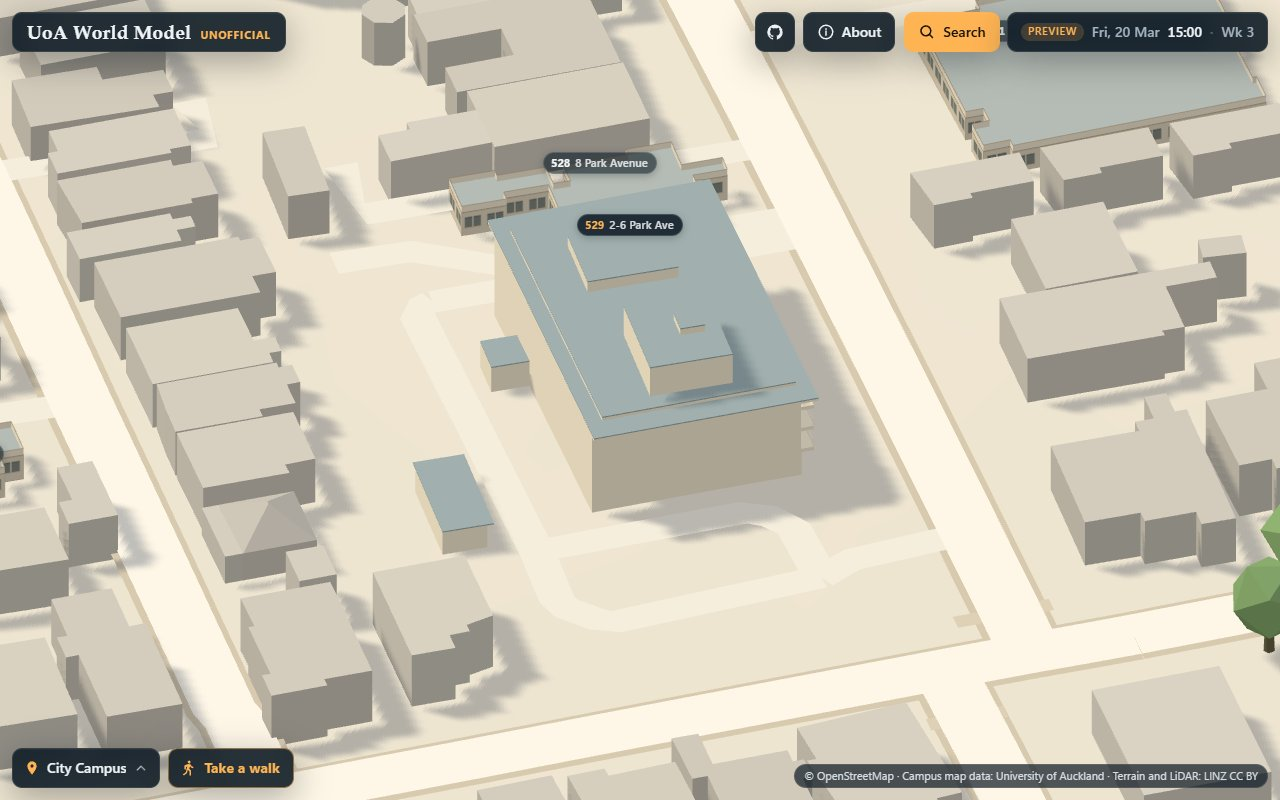
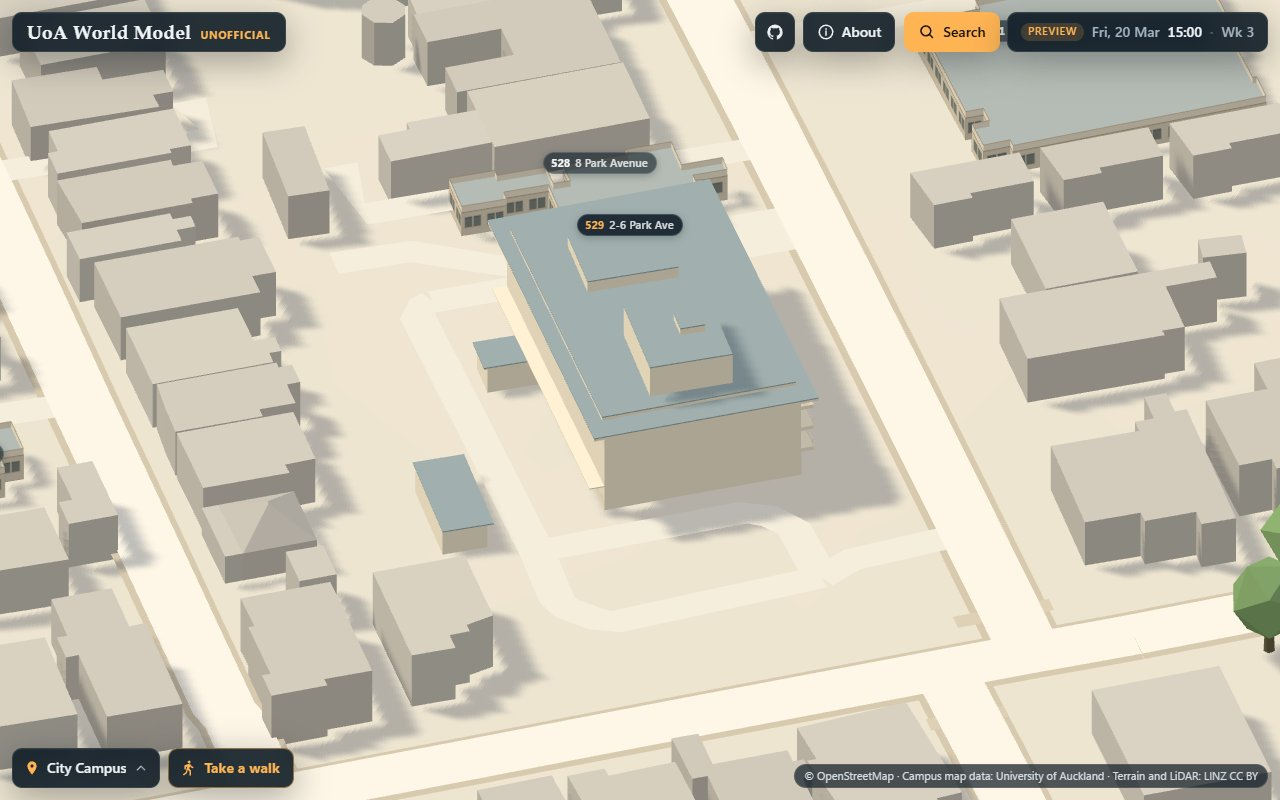
2-6 Park Ave (529), the review's round 2
- The west wall stood 0.3 m behind the eave, but the LiDAR sees a canopy at 3.65 m under the eave
  all along that side, up to 1.61 m in from its edge: the wall stands 1.8 m in, as on the north
  and south, and the canopy is drawn from it to the eave's edge.
- The annex stopped at w -16.4, where the LiDAR still has its roof: its outer wall stands at
  w -16.85, where the LiDAR sees a wall's face and the ground beyond, its roof runs to the ring's
  edge (w -17.3), its north end stands behind a ground return, and it runs into the block's west
  wall. The docs no longer say the LiDAR sees the ground beyond w -16.4.
- The east face's parts run between the walls' lines (t 0.0412 to 0.9582), not the eave's.
- The south-west part's +w side is called east; the README says its outer strip comes from the
  campus map's outline; the card names the canopy behind which the west wall stands.

888 triangles, 7 draw calls. Silhouette IoU 0.958 in the model's screen box. The top view:
footprint IoU 0.875, 89% of the 5,047 cells within 0.5 m; block 529 under the model 93.1%. The
landmark tests pass; the four pictures are retaken.

Claude-Session: https://claude.ai/code/session_01WyPcwFTXkmVC7XB6LWPSiH

Changed region(s): [[0.375, 0.3125, 0.5, 0.6562]]

diff --git a/landmarks/2-6-park-ave/parts/common.js b/landmarks/2-6-park-ave/parts/common.js
@@ -47,21 +47,29 @@ export const RAISED = { u: [4.0, 16.0], w: [-3.0, 7.0], top: H(17.3), plant: { u
 export const EAST = { back: 1.6, slabs: [[3.4, 3.9], [6.5, 7.0], [9.6, 10.1]].map(([a, b]) => [H(a), H(b)]),
   rail: [0.5, 1.05], bar: 0.06, fascia: H(12.0), windows: { y: [H(0.9), H(2.9)] } };
 
-// The walls stand behind the eave's edge where the LiDAR sees the ground under it (estimated depths): 1.8 m on the
-// north (its returns to 1.66 m in), 1.6 m on the east (1.48 m), 1.8 m on the south (1.46 m, near the south-east corner)
-// and 0.3 m on the west (none): their corners. Inside them the LiDAR has the roof and no ground.
-export const WALLS = [[-20.11, -12.24], [-20.95, 12.97], [18.85, 14.53], [19.59, -10.96]];
-// The east face's balconies, glazing, brick and ground storey windows run between the north and south walls (t along
-// NE to SE).
-export const EAST_T = [0.043, 0.96];
+// The walls stand behind the eave's edge (estimated depths): 1.8 m on the north, 1.6 m on the east and 1.8 m on the
+// south, behind the ground the LiDAR sees under the eave (its returns to 1.66, 1.48 and 1.46 m in), and 1.8 m on the
+// west, behind a canopy at 3.65 m (3.62 to 3.69) that the LiDAR sees under the eave all along that side, up to 1.61
+// m in from its edge: their corners. Inside them the LiDAR has the roof and no ground.
+export const WALLS = [[-20.16, -10.74], [-20.95, 12.97], [18.85, 14.53], [19.55, -9.46]];
+/** The west canopy under the eave, from the wall to the eave's edge between the north and south walls. */
+export const CANOPY = { plan: [[-20.16, -10.74], [19.55, -9.46], [19.55, -11.26], [-20.16, -12.53]],
+  y: [H(3.5), H(3.65)] };
+// The east face's balconies, glazing, brick and ground storey windows run between the north and south walls: t along
+// NE to SE where the walls' lines meet the east wall.
+export const EAST_T = [0.0412, 0.9582];
 
-// A low annex west of the block, one storey, u -11 to -5.9 (the ring's edge), to w -16.4, 3.5 m (3.48 to 3.53), where
-// the LiDAR roofs it with no ground under it (it sees the ground beyond w -16.4).
-export const ANNEX = { u: [-11.0, -5.9], w: [-16.4, -11.7], top: H(3.5) };
+// A low annex west of the block, one storey, its roof at 3.5 m (3.48 to 3.53) from u -11 to -5.9 (the ring's edge)
+// and out to w -17.3 (the ring's edge; the LiDAR's roof to about -17.4), with no ground under it; its outer wall at
+// w -16.85, where the LiDAR sees a wall's face (its returns at -16.85 to -17.15) and the ground beyond, and its
+// north end at u -10.7, behind a ground return (estimated); its roof over them from 3.2 m. It runs into the block's
+// west wall.
+export const ANNEX = { walls: { u: [-10.7, -5.9], w: [-16.85, -10.0] }, roof: { u: [-11.0, -5.9], w: [-17.3, -10.0] },
+  soffit: H(3.2), top: H(3.5) };
 // A low part south-west of the block, inside the ring (u 9.1 to 23.0, w -23.6 to -30.4), joined to it on the campus
 // map by a sliver: its flat roof at 3.44 m (3.40 to 3.49) from u 9.2 to 22.8 and w -23.7 to -27.6, where trees hide
 // the rest of it; drawn to the ring (estimated). The LiDAR sees the ground under its roof's edges, up to 1.0 m in on
-// the north (u 10.15) and 0.75 m on the north-east (w -24.4): its walls stand behind them (estimated), its roof over
+// the north (u 10.15) and 0.75 m on the east (w -24.4): its walls stand behind them (estimated), its roof over
 // them from 3.2 m.
 export const SOUTHWEST = { walls: { u: [10.3, 22.8], w: [-29.9, -24.5] }, roof: { u: [9.2, 22.8], w: [-29.9, -23.7] },
   soffit: H(3.2), top: H(3.44) };

diff --git a/landmarks/2-6-park-ave/parts/block.js b/landmarks/2-6-park-ave/parts/block.js
@@ -1,8 +1,9 @@
-// 2-6 Park Ave's block: its walls, eave and roof, the plant and the raised part on it, the annex on its west and the
-// low part south-west of it (`body`); its east face on Park Avenue, with the balconies of its upper storeys, their rails, the glazing behind them
-// and the brick ground storey (`east`). Sizes from common.js.
+// 2-6 Park Ave's block: its walls, eave and roof, the plant and the raised part on it, the canopy under its west eave,
+// the annex on its west and the low part south-west of it (`body`); its east face on Park Avenue, with the balconies of
+// its upper storeys, their rails, the glazing behind them and the brick ground storey (`east`). Sizes from common.js.
 import {
-  ANNEX, EAST, EAST_T, EAVE, FOOT, NE, NW, PLANT, RAISED, ROOF_IN, SE, SOUTHWEST, SW, WALLS, inEast, lerp, plan, rect,
+  ANNEX, CANOPY, EAST, EAST_T, EAVE, FOOT, NE, NW, PLANT, RAISED, ROOF_IN, SE, SOUTHWEST, SW, WALLS, inEast, lerp, plan,
+  rect,
 } from "./common.js";
 import { block, prism } from "./shapes.js";
 
@@ -16,8 +17,8 @@ const strip = (d0, d1, t0 = 0, t1 = 1) => {
 };
 
 /** The block's walls to the fascia, the eave over them to the LiDAR's edge, the roof inside rising to 13.0 m, the
- * plant, the raised part with its red roof and the plant on it, the annex, and the low part south-west of the block,
- * its roof over its walls. */
+ * plant, the raised part with its red roof and the plant on it, the canopy under the west eave, and the annex and the
+ * low part south-west of the block, each with its roof over its walls. */
 export function body(b) {
   prism(b, plan(WALLS), FOOT, EAST.fascia, WALL);
   block(b, plan([NW, NE, SE, SW]), EAST.fascia, EAVE, DARK, ROOF);
@@ -31,10 +32,11 @@ export function body(b) {
   const R = RAISED;
   block(b, rect(R.u, R.w), ROOF_IN.top - 0.05, R.top, WALL, TILE);
   block(b, rect(R.plant.u, R.plant.w), R.top - 0.05, R.plant.top, BRICK, ROOF);
-  block(b, rect(ANNEX.u, ANNEX.w), FOOT, ANNEX.top, WALL, ROOF);
-  const S = SOUTHWEST;
-  prism(b, rect(S.walls.u, S.walls.w), FOOT, S.soffit, WALL);
-  block(b, rect(S.roof.u, S.roof.w), S.soffit, S.top, WALL, ROOF);
+  prism(b, plan(CANOPY.plan), CANOPY.y[0], CANOPY.y[1], WALL);
+  for (const S of [ANNEX, SOUTHWEST]) {
+    prism(b, rect(S.walls.u, S.walls.w), FOOT, S.soffit, WALL);
+    block(b, rect(S.roof.u, S.roof.w), S.soffit, S.top, WALL, ROOF);
+  }
 }
 
 /** The east face: the ground storey's brick and windows, and at each upper storey a balcony on its slab, a rail of two

diff --git a/landmarks/2-6-park-ave/README.md b/landmarks/2-6-park-ave/README.md
@@ -36,9 +36,9 @@ other, as it does for every landmark.
   map's ground at its door (`../README.md`, "Placement").
 - The campus map's ring of 529 takes in, besides the block, a one-storey annex on its west and a low part south-west of
   it, joined to the block on the map by a sliver: both are drawn. Its other low strips along the block's walls, up to
-  about 1.5 m wide (canopies at 3.5 to 6.4 m, and the eave's edge), are left open: 72 m² of the LiDAR's roof inside the
-  ring, 43 m² of it with no ground seen under it.
-- 92.8% of block 529 is under the model above 2.5 m. No other block is under it by half, so `building.also` is empty.
+  about 1.5 m wide (canopies at 3.5 to 6.4 m, and the eave's edge), are left open: 67.5 m² of the LiDAR's roof inside
+  the ring, 41 m² of it with no ground seen under it.
+- 93.1% of block 529 is under the model above 2.5 m. No other block is under it by half, so `building.also` is empty.
 
 ## The reference
 
@@ -63,9 +63,11 @@ section names as estimated; it is a reference for the look and the comparison.
   14.5), SE (20.6, 16.2) and SW (21.4, -11.2) (u, w): a dark eave (`screenGrey`) from 12.0 m to the roof's edge at
   12.45 m (12.4 to 12.5 on every edge); inside it the roof, 12.6 to 13.1 m, drawn as a flat top of 13.0 m
   (`roofGrey`) whose edges stand 1.9 m in from the eave's on the east and west and 3.0 m on the north and south.
-- **The walls** (`claddingPale`) stand behind the eave's edge where the LiDAR sees the ground under it (estimated):
-  1.8 m on the north (its returns to 1.66 m in), 1.6 m on the east (1.48 m), 1.8 m on the south (1.46 m, near the
-  south-east corner) and 0.3 m on the west, where it sees none. Inside them it has the roof and no ground.
+- **The walls** (`claddingPale`) stand behind the eave's edge (estimated): 1.8 m on the north, 1.6 m on the east and 1.8
+  m on the south, behind the ground the LiDAR sees under the eave (its returns to 1.66, 1.48 and 1.46 m in), and 1.8 m
+  on the west, behind a canopy at 3.65 m (3.62 to 3.69) that it sees under the eave all along that side, up to 1.61 m in
+  from the eave's edge; the canopy is drawn there, from the wall to the eave's edge (`claddingPale`). Inside the walls
+  the LiDAR has the roof and no ground.
 - **On the roof** plant at 14.6 m (14.4 to 14.8) over u -14 to -5, w -5 to 6 (`renderGrey`); a raised part with a
   flat roof at 17.3 m (17.1 to 17.5), red on the 2023 aerial (`roofTile`), over u 4 to 16, w -3 to 7, and plant on it
   at 18.3 m (17.9 to 18.3) over u 8 to 11, w 2 to 5.
@@ -74,22 +76,24 @@ section names as estimated; it is a reference for the look and the comparison.
   storeys 3.1 m apart), each with a rail of two bars at 0.5 and 1.05 m on fourteen posts (`screenSilver`), and the
   glazing (`glass`) behind it; the ground storey in pale grey brick (`renderGrey`) from the north wall to the south wall,
   its windows from 0.9 to 2.9 m under the first slab.
-- **The annex** west of the block, one storey, u -11 to -5.9 (the ring's edge), out to w -16.4, 3.5 m (its returns
-  3.48 to 3.53), where the LiDAR has no ground under its roof; beyond w -16.4 it sees the ground.
+- **The annex** west of the block, one storey, its roof at 3.5 m (its returns 3.48 to 3.53) from u -11 to -5.9 and out
+  to w -17.3, the ring's edges (the LiDAR's roof runs to about -17.4), with no ground under it; its outer wall at w
+  -16.85, where the LiDAR sees a wall's face (its returns at -16.85 to -17.15) and the ground beyond, and its north end
+  at u -10.7, behind a ground return (estimated); its roof over them from 3.2 m. It runs into the block's west wall.
 - **The low part south-west of the block**, inside the ring (u 9.1 to 23.0, w -23.6 to -30.4): its flat roof at 3.44 m
   (3.40 to 3.49) from the LiDAR from u 9.2 to 22.8 and w -23.7 to -27.6, where trees hide the rest of it, so it is drawn
   to the ring's outer edge, w -29.9 (estimated; the campus map's ground floor has its rooms there). The LiDAR sees the
-  ground under its roof's edges, up to 1.0 m in on the north and 0.75 m on the north-east: its walls stand behind them,
-  its roof over them from 3.2 m (estimated).
+  ground under its roof's edges, up to 1.0 m in on the north and 0.75 m on the east: its walls stand behind them, its
+  roof over them from 3.2 m (estimated).
 - The light: the photograph is overcast, its east face in soft light without shadows. The viewer's sun stands behind
   the block (290 degrees round, 40 up), so that the east face takes the sky's light only, at an exposure of 1.0: the
   luma of the east face between the eave and the brick 92 against the photograph's 85, of its brick 87 against 111, of
   its slabs' fronts 147 against 189, of its glazing 85 against 75 (the compare's figure over the model's screen box,
   where the photograph has its bright sky, trees and a sign: 82 against 145).
 
-Silhouette IoU 0.912 in the photograph, 0.958 in the model's screen box. The top view: footprint IoU 0.871 (the
-LiDAR's 1,406 m² against the model's 1,296, both 1,258), 89% of the 5,027 cells both cover within 0.5 m
-(p10/p50/p90 -0.28/0.00/0.34); the highest point 18.3 m against the LiDAR's 18.15 (p99.9). 864 triangles, 7 draw
+Silhouette IoU 0.912 in the photograph, 0.958 in the model's screen box. The top view: footprint IoU 0.875 (the
+LiDAR's 1,406 m² against the model's 1,301, both 1,263), 89% of the 5,047 cells both cover within 0.5 m
+(p10/p50/p90 -0.28/0.00/0.34); the highest point 18.3 m against the LiDAR's 18.15 (p99.9). 888 triangles, 7 draw
 calls.
 
 ## On the map (step 7)
@@ -120,8 +124,8 @@ and the fourth round, and `massing.py --campus grafton` leaves it out and writes
   `screenSilver` and `screenGrey` are walls.
 - **Its card** says "estimated:" and the config's `estimated`: the east face's storeys, its balconies' depth and rails,
   the glazing behind them and the ground storey's brick and windows, with a photograph as a reference; how far the walls
-  stand behind the eaves, behind where the LiDAR sees the ground under them; the low part south-west of the block where
-  trees hide its roof, drawn to the campus map's outline; and the faces no photograph shows, drawn plainly.
+  stand behind the eaves, behind where the LiDAR sees the ground or a canopy under them; the low part south-west of the
+  block where trees hide its roof, drawn to the campus map's outline; and the faces no photograph shows, drawn plainly.
 - **The pictures** in `docs/landmarks/`: `2-6-park-ave-front.jpg` and `-above.jpg` are the viewer's renders of the
   model alone, from Park Avenue and from above, with no photograph; `-map.jpg` and `-eyes.jpg` are shots of the site
   built from this branch, the map near it and a walker's eyes on Park Avenue north-east of it, where the photograph is

diff --git a/README.md b/README.md
@@ -733,8 +733,9 @@ LiDAR's height. What the photograph does not show is drawn plainly.
 The twenty-seventh is 2-6 Park Ave (529), on the Grafton campus: a long block of four storeys under a thin flat roof
 with a dark eave; on its east face, on Park Avenue, a balcony along each upper storey on a pale slab with a light rail,
 the glazing behind them, and a ground storey of pale grey brick; on its roof grey plant and a raised part with a red
-roof. Its heights and plans come from the LiDAR, which also sees the ground under its eaves, where the walls are drawn
-set back; the east face's storeys, its balconies' depth and rails, the glazing behind them and the ground storey's brick
+roof. Its heights and plans come from the LiDAR, which also sees the ground, or a canopy, under its eaves, where the
+walls are drawn set back, but for the part of a low wing south-west of it that trees hide, drawn to the campus map's
+outline; the east face's storeys, its balconies' depth and rails, the glazing behind them and the ground storey's brick
 and windows are estimated with the photograph as a reference. One photograph from the footpath of Park Avenue, looking
 along the east face; counted inside the rectangle the model fills on the screen, its silhouette has an IoU of 0.96 in
 it, and the brightness of that face is within 8 of the photograph's. From above its outline covers the LiDAR's with an
@@ -1349,14 +1350,15 @@ If you represent the University and would like something changed or removed, ple
   the footpath near its north-east corner; its camera's distance is held by the planted bed's kerb along the footpath,
   where the LiDAR's shrubs end. The east face's storeys, its balconies' depth and rails, the glazing behind them and the
   ground storey's brick and windows are estimated in the photograph. The LiDAR sees the ground under the eave on its
-  north, east and south sides: the walls are drawn behind it, by estimated depths. Of the low parts the campus map's
-  block takes in, a one-storey annex on the west and a low part south-west of the block are drawn, the second to the
-  block's outline where trees hide its roof; low strips along the walls, up to about 1.5 m wide, are left open. Its
-  other faces, which no photograph shows, are drawn plainly. Its entrance is not known from a record: its door is set on
-  the footpath before the east face's south end. The map's ground round it stands about 11 m over the LiDAR's (the 8 m
-  elevation model is flat at about 80 m there), so the model stands on the drawn ground at its door, 10.9 m higher than
-  the real one, as the blocks round it do. While a building beside it is open, it gives way to block 529, which sinks to
-  a footprint on its footing: that footprint stands above the drawn ground on all its cells, by up to 0.8 m.
+  north, east and south sides, and a canopy under it on the west: the walls are drawn behind them, by estimated depths.
+  Of the low parts the campus map's block takes in, a one-storey annex on the west and a low part south-west of the
+  block are drawn, the second to the block's outline where trees hide its roof; low strips along the walls, up to about
+  1.5 m wide, are left open. Its other faces, which no photograph shows, are drawn plainly. Its entrance is not known
+  from a record: its door is set on the footpath before the east face's south end. The map's ground round it stands
+  about 11 m over the LiDAR's (the 8 m elevation model is flat at about 80 m there), so the model stands on the drawn
+  ground at its door, 10.9 m higher than the real one, as the blocks round it do. While a building beside it is open, it
+  gives way to block 529, which sinks to a footprint on its footing: that footprint stands above the drawn ground on all
+  its cells, by up to 0.8 m.
 - **The Fisher Building is seen from Waterloo Quadrant only.** Two Street View panoramas see its west
   and south faces; its faces turned north, east and south-east, which no photograph shows, are tan
   brick with their floor bands, and its roofs are flat. Block 804's outline under the trees by its

diff --git a/landmarks/2-6-park-ave/docs/CONTRACT.md b/landmarks/2-6-park-ave/docs/CONTRACT.md
@@ -17,16 +17,16 @@ The rules every part of this landmark keeps. The kit, the pipeline and the viewe
     16.2) and SW (21.4, -11.2) at the roof's edges, its eave at 12.45 m and its nearly flat roof 12.6 to 13.1 inside;
   - on the roof **plant** at 14.6 m (u -14 to -5, w -5 to 6) and **a raised part** at 17.3 m (u 4 to 16, w -3 to 7),
     its roof red on the 2023 aerial, with plant on it at 18.3;
-  - inside the campus map's ring, **a one-storey annex** on the west (u -11 to -5.9, to w -16.4, 3.5 m) and **a low
+  - inside the campus map's ring, **a one-storey annex** on the west (u -11 to -5.9, to w -17.4, 3.5 m) and **a low
     part south-west of the block** (u 9.2 to 22.8, w -23.7 to -27.6 and on under trees to the ring, its roof 3.44 m),
     both roofed with no ground under them; and low strips along the block's walls, up to about 1.5 m wide (canopies at
     3.5 to 6.4 m, and the eave's edge);
-  - the ground under the eave on the north (to 1.66 m in), east (1.48 m) and south (1.46 m) sides: the walls stand
-    behind it;
+  - the ground under the eave on the north (to 1.66 m in), east (1.48 m) and south (1.46 m) sides, and a canopy at
+    3.65 m under it all along the west (up to 1.61 m in): the walls stand behind them;
   - the ground: -0.4 to +0.1 m along Park Avenue, falling to about -0.8 on the west: walls go down to `FOOT`, 2.0 m
     under the provisional ground.
 - What it draws: what the LiDAR has inside the campus map's ring of 529, but for the low strips along the walls, which
-  are left open (72 m² of its roof inside the ring, 43 m² of it with no ground seen under it).
+  are left open (67.5 m² of its roof inside the ring, 41 m² of it with no ground seen under it).
 
 ## Who owns what
 - `parts/common.js` (the measured sizes and the building's frame): the lead.
@@ -34,7 +34,7 @@ The rules every part of this landmark keeps. The kit, the pipeline and the viewe
 
 ## Budget
 - Whole building ≤ 100k triangles and ≤ 10 draw calls (tier 2), merged by material. Round 1: 908 triangles, 7 draw
-  calls; after the walls were set behind the eave: 848, 7; after the review's round 1: 864, 7.
+  calls; after the walls were set behind the eave: 848, 7; after the review's round 1: 864, 7; after round 2: 888, 7.
 
 ## Rounds
 - Round 1 (2026-11-10, the lead alone): the block at the LiDAR's plan and eave, its walls `claddingPale` to a dark eave
@@ -79,6 +79,14 @@ The rules every part of this landmark keeps. The kit, the pipeline and the viewe
   east and west, 3.0 on the north and south). 864 triangles, 7 draw calls. Silhouette IoU 0.912 in the photograph
   (0.958 in the model's screen box). The top view: footprint IoU 0.871 (the LiDAR's 1,406 m² against the model's 1,296,
   both 1,258), 89% of the 5,027 cells within 0.5 m (p10/p50/p90 -0.28/0.00/0.34); block 529 under the model 92.8%.
+- The review's round 2 (2026-11-10): the west wall stood 0.3 m behind the eave, but the LiDAR sees a canopy at 3.65 m
+  under the eave all along that side, up to 1.61 m in: the wall stands 1.8 m in, as on the north and south, and the
+  canopy is drawn from it to the eave's edge. The annex stopped at w -16.4, where the LiDAR still has its roof: its
+  outer wall stands at w -16.85, where the LiDAR sees a wall's face, its roof runs to the ring's edge (w -17.3), its
+  north end behind a ground return; it runs into the block's west wall. The east face's parts run between the walls'
+  lines (t 0.0412 to 0.9582, not the eave's). 888 triangles, 7 draw calls. Silhouette IoU 0.912 in the photograph
+  (0.958 in the model's screen box). The top view: footprint IoU 0.875 (the LiDAR's 1,406 m² against the model's 1,301,
+  both 1,263), 89% of the 5,047 cells within 0.5 m (p10/p50/p90 -0.28/0.00/0.34); block 529 under the model 93.1%.
 
 ## Rules
 - Measure, don't guess: a size the LiDAR gives is taken from it; one it does not is estimated and said to be.

diff --git a/CHANGELOG.md b/CHANGELOG.md
@@ -21,13 +21,13 @@ A change to what the site does or shows adds its line here, and the README's
 - **2-6 Park Ave drawn in detail.** Near the camera the map draws 2-6 Park Ave (529), on the Grafton campus, from code
   in place of its block: a long block of four storeys under a thin flat roof with a dark eave; on its east face, on
   Park Avenue, a balcony along each upper storey on a pale slab with a light rail, the glazing behind them, and a
-  ground storey of pale grey brick; on its roof grey plant and a raised part with a red roof; a one-storey annex on
-  its west and a low part south-west of it. Its sizes come from the LINZ 2024 LiDAR; it was compared with a photograph
-  from Park Avenue, and its card says what is estimated: the east face's storeys, its balconies' depth and rails, the
-  glazing behind them and the ground storey's brick and windows, with the photograph as a reference; how far the walls
-  stand behind the eaves; the low part south-west of it where trees hide its roof; and the faces no photograph shows.
-  On the map it has the map's colours; from a walker's height on a computer with a graphics card, its own walls,
-  rails, glass and roofs (#155).
+  ground storey of pale grey brick; on its roof grey plant and a raised part with a red roof; a canopy along its west
+  side, a one-storey annex on its west and a low part south-west of it. Its sizes come from the LINZ 2024 LiDAR; it
+  was compared with a photograph from Park Avenue, and its card says what is estimated: the east face's storeys, its
+  balconies' depth and rails, the glazing behind them and the ground storey's brick and windows, with the photograph
+  as a reference; how far the walls stand behind the eaves; the low part south-west of it where trees hide its roof;
+  and the faces no photograph shows. On the map it has the map's colours; from a walker's height on a computer with a
+  graphics card, its own walls, rails, glass and roofs (#155).
 
 ## 2026-11-09
 
